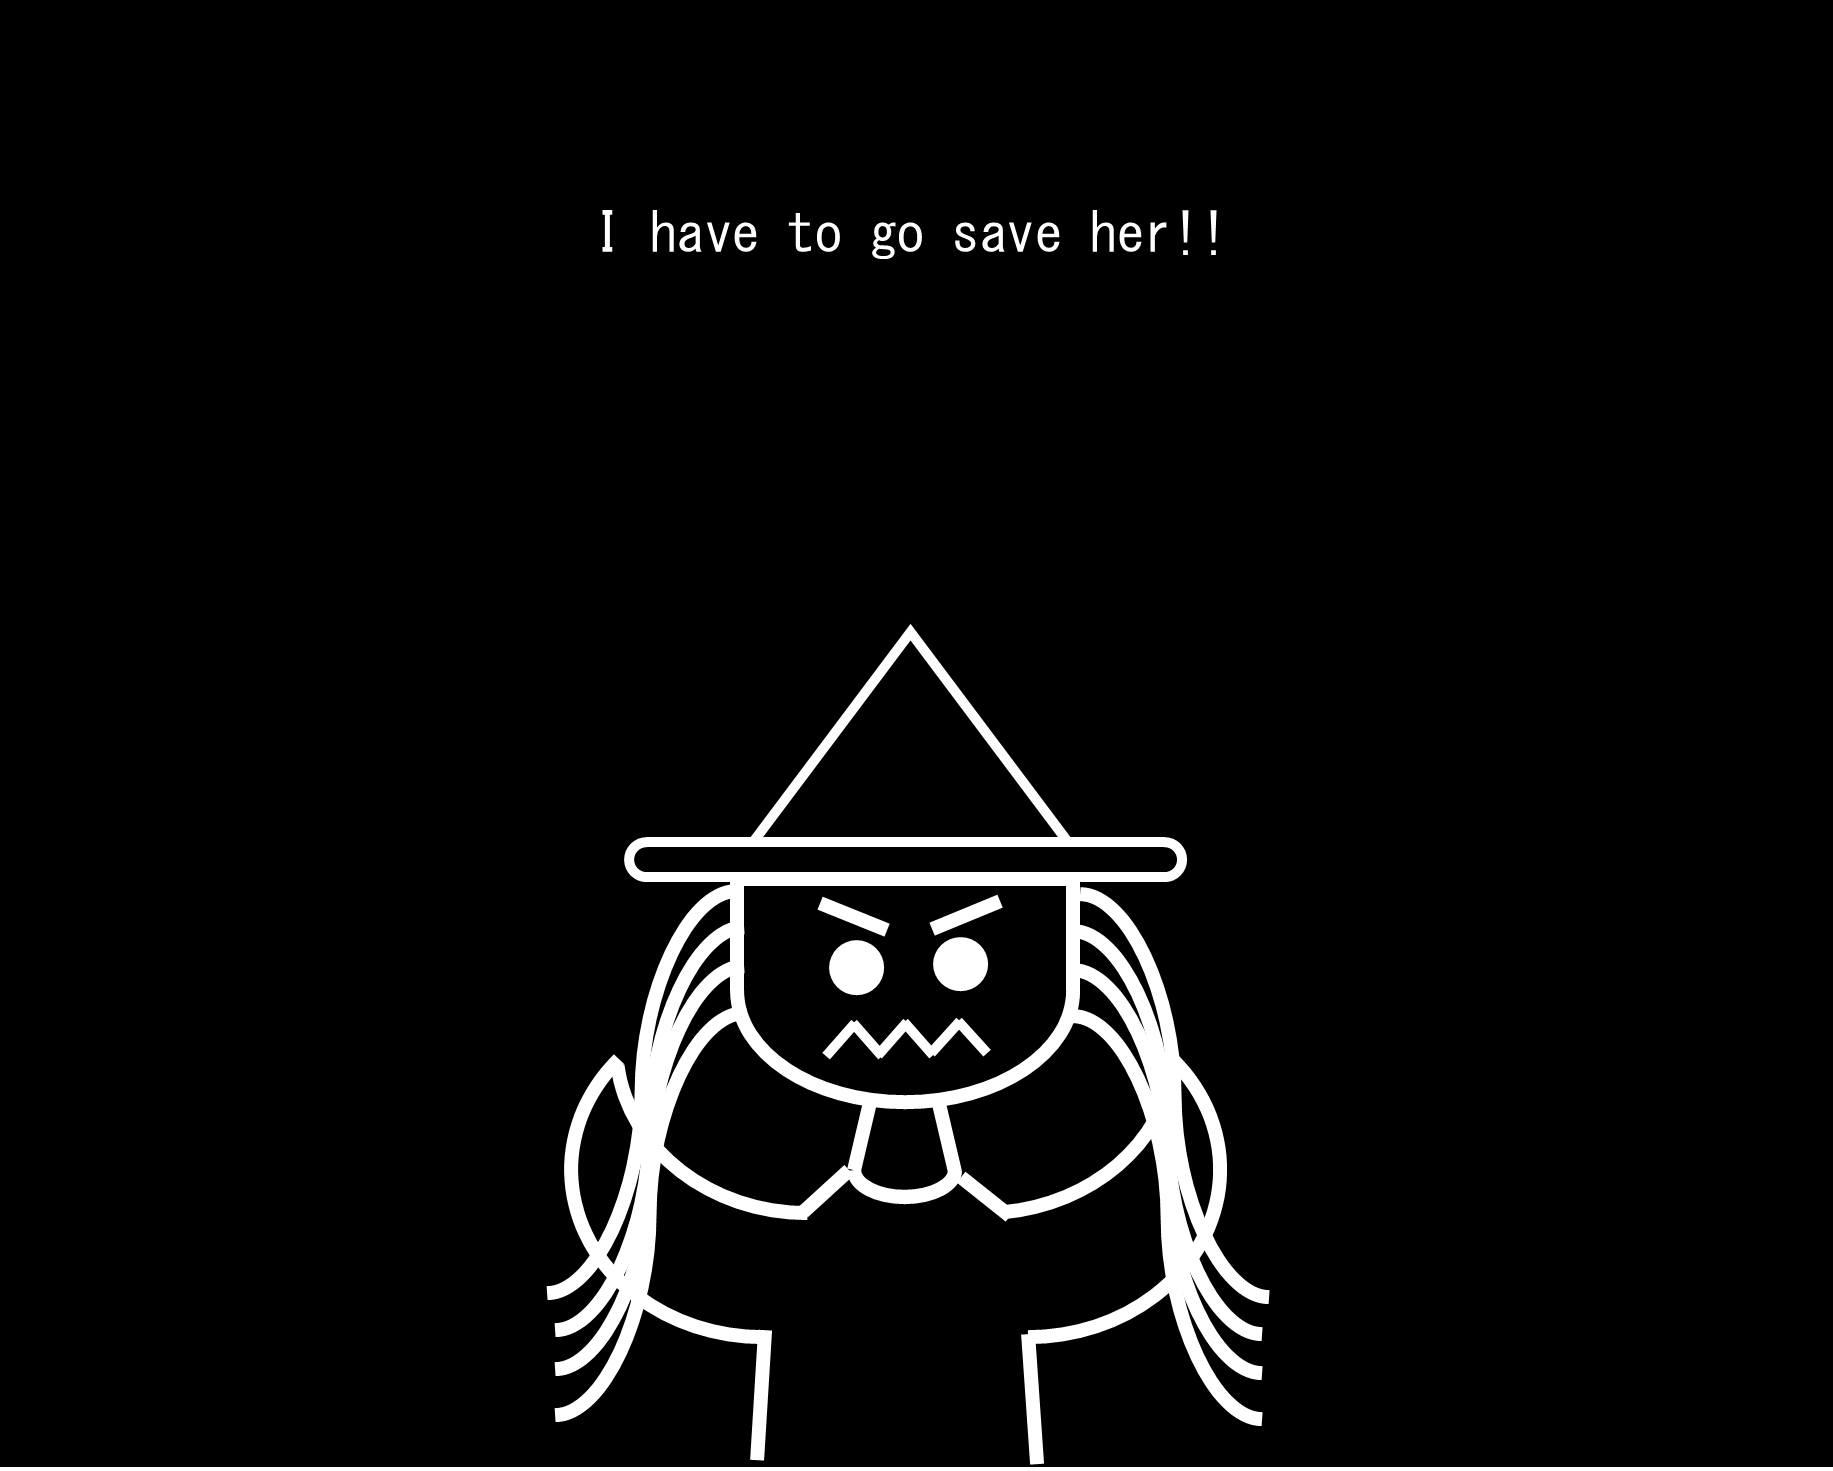
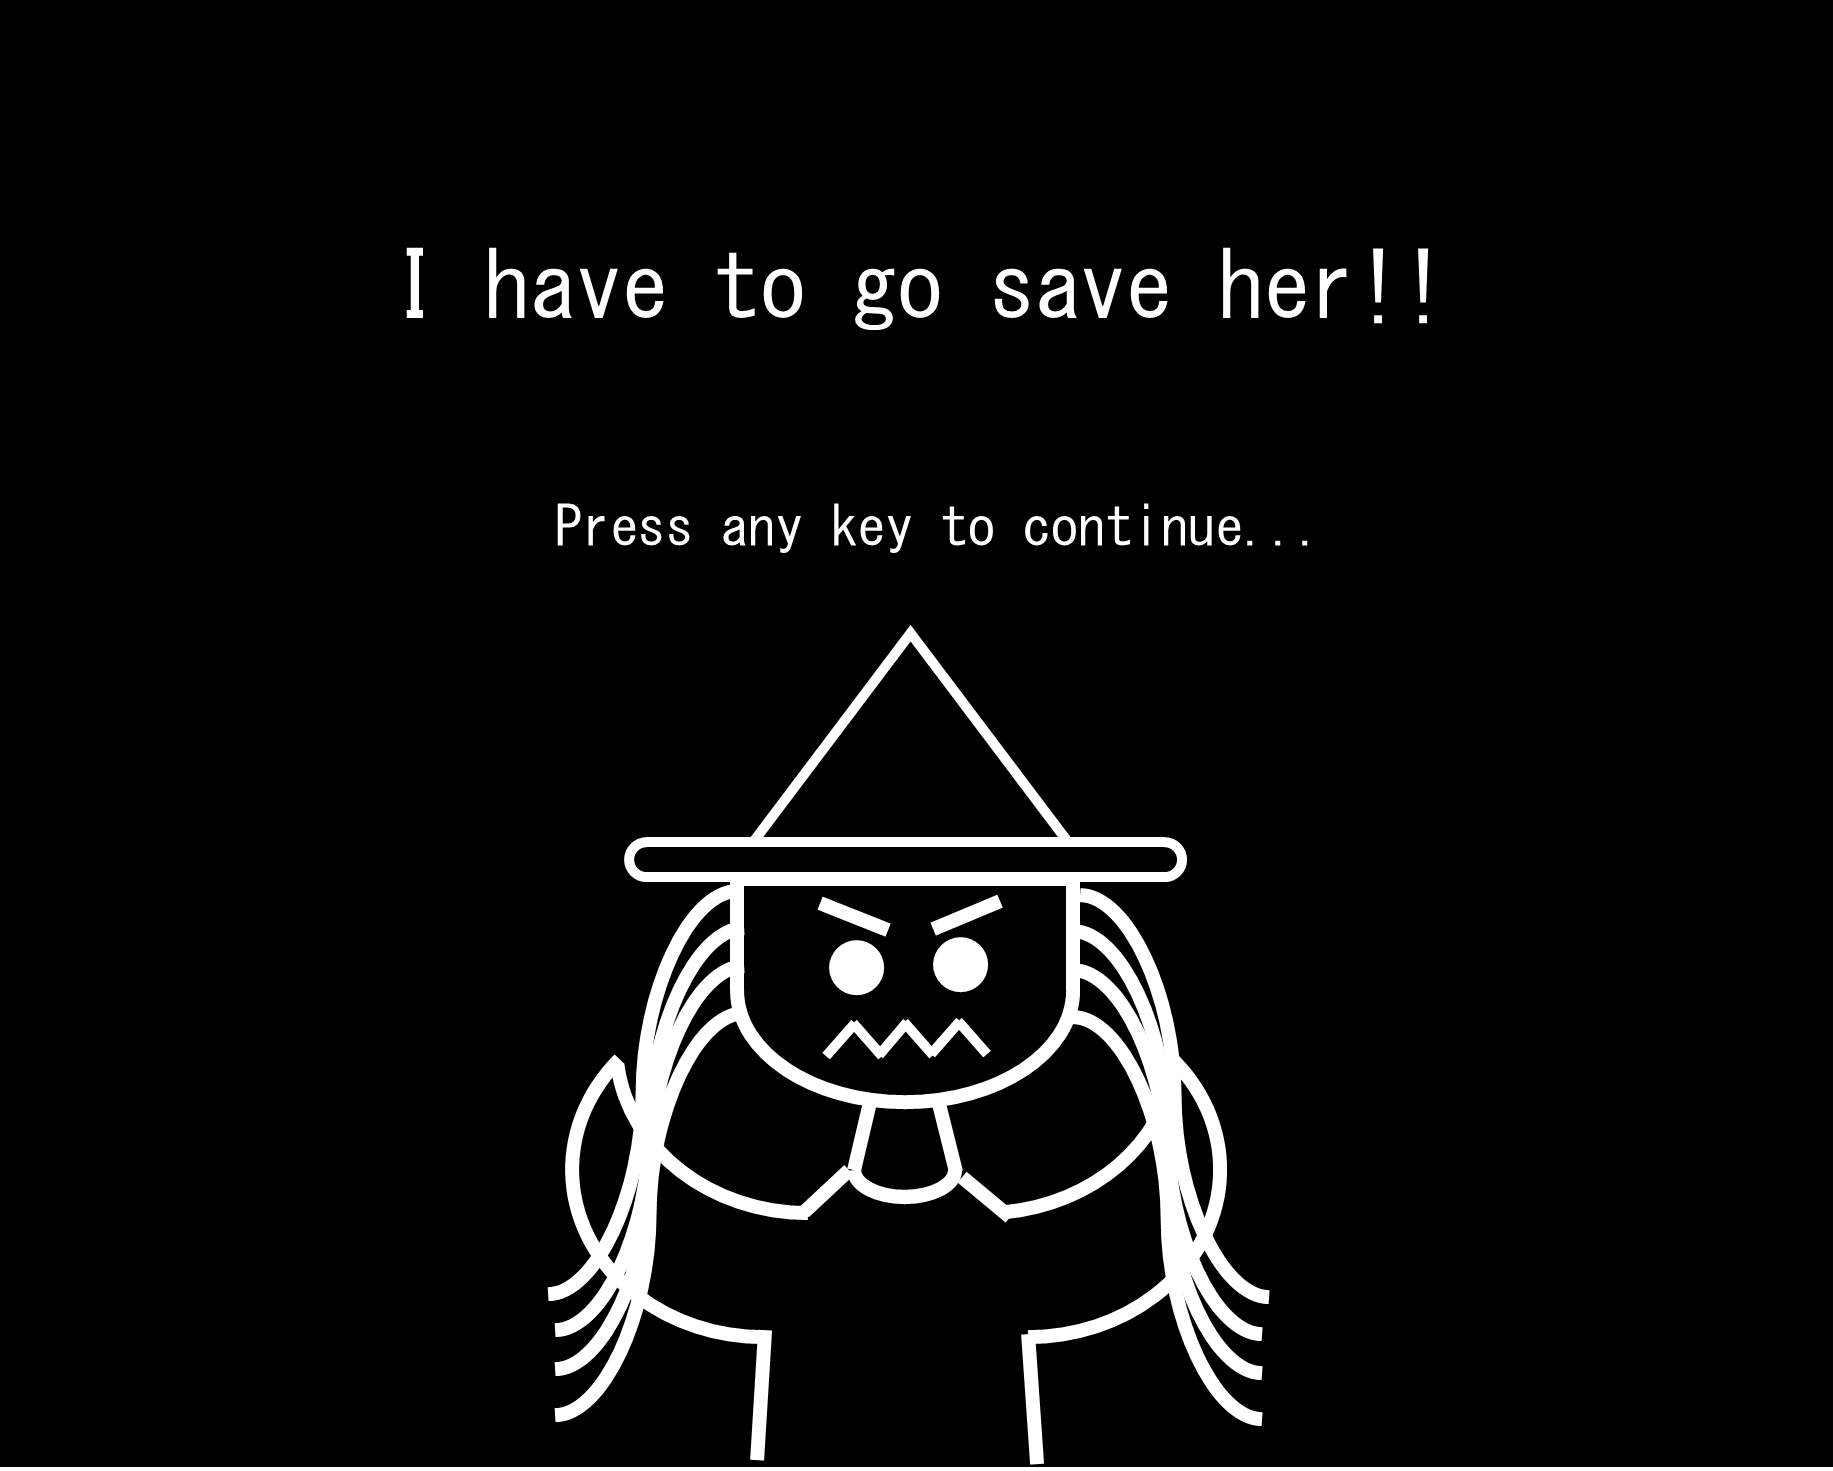
Finished Story Screens

Changed region(s): [[0.2177, 0.153, 0.7774, 0.2447], [0.2799, 0.3365, 0.6841, 0.3671], [0.311, 0.826, 0.3421, 0.8566]]

diff --git a/COMP3016-CW1/StoryScreen.cpp b/COMP3016-CW1/StoryScreen.cpp
@@ -11,7 +11,9 @@ StoryScreen::StoryScreen(SDL_Renderer* renderer, TTF_Font* font)
         "Assets/StoryScreen1.png",
         "Assets/StoryScreen2.png",
         "Assets/StoryScreen3.png",
-        "Assets/StoryScreen4.png"
+        "Assets/StoryScreen4.png",
+        "Assets/StoryScreen5.png",
+        "Assets/HowToPlayScreen.png"
 
     };
     for (const auto& path : storyScreens)
@@ -65,7 +67,7 @@ void StoryScreen::render(SDL_Renderer* renderer)
     {
         SDL_RenderCopy(renderer, storyTextures[currentIndex], nullptr, &storyRect);
         SDL_Color white = { 255, 255, 255 };
-        renderText(renderer, "Press any key to continue...", 250, 200, white);
+        renderText(renderer, "", 250, 200, white);
     }
 
     SDL_RenderPresent(renderer);
